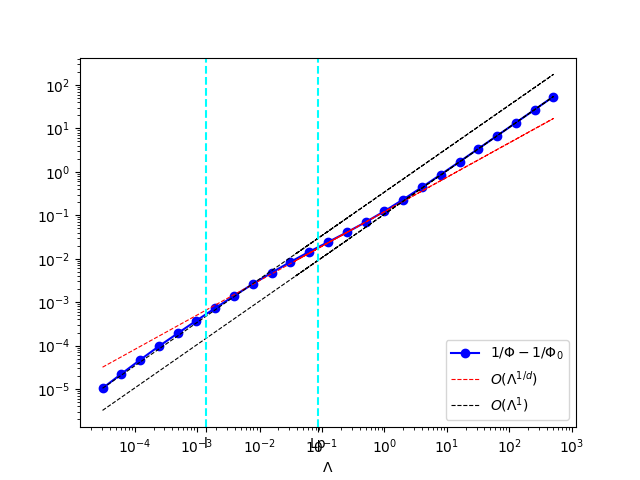
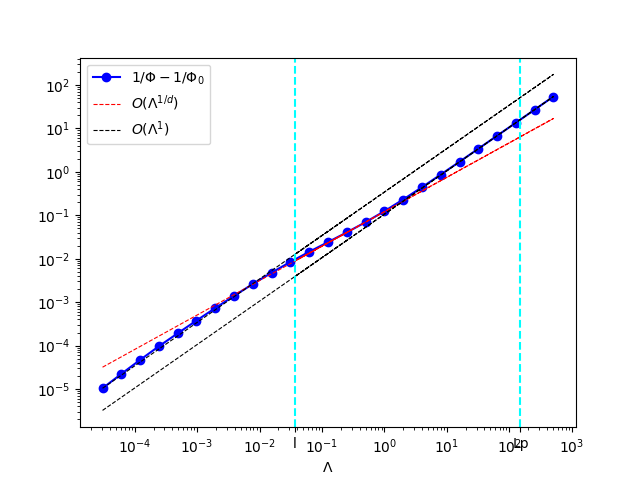
update

diff --git a/Ex4_square_cantor/read_csv.py b/Ex4_square_cantor/read_csv.py
@@ -5,8 +5,8 @@ from collections import defaultdict
 import numpy as np
 columns = defaultdict(list) # each value in each column is appended to a list
 nn=3
-l=(1/9)**nn
-Lp=(4/9)**nn
+l=(1/3)**nn
+Lp=(16/3)**nn
 dim_frac=np.log(4)/np.log(3)
 
 with open(f'results/Phi_Lam_{nn}.csv') as f:
@@ -86,7 +86,7 @@ plt.loglog(LL,(LL)**alpha/(LL[0]**alpha)*(phi_2[0]),color='red',linestyle='dashe
 plt.axvline(x=l,color='cyan',linestyle='dashed')
 plt.axvline(x=Lp,color='cyan',linestyle='dashed')
 plt.xticks([10**(-2),10**(-1),1,l, Lp], ['$10^{-2}$','$10^{-1}$','$10^{0}$','l','Lp'])
-plt.legend(['$1/\Phi-1/\Phi_0$', '$O(\Lambda^{1/dim_frac})$'])
+plt.legend(['$1/\Phi-1/\Phi_0$', '$O(\Lambda^{1/d})$'])
 plt.xlabel('$\Lambda$')
 plt.savefig(f"figures/Phi_Lam_{nn}_R2.png")
 PETSc.Sys.Print(f"Plot for l<Lambda<L_p saved to figures/Phi_Lam_{nn}_R2.png ")
